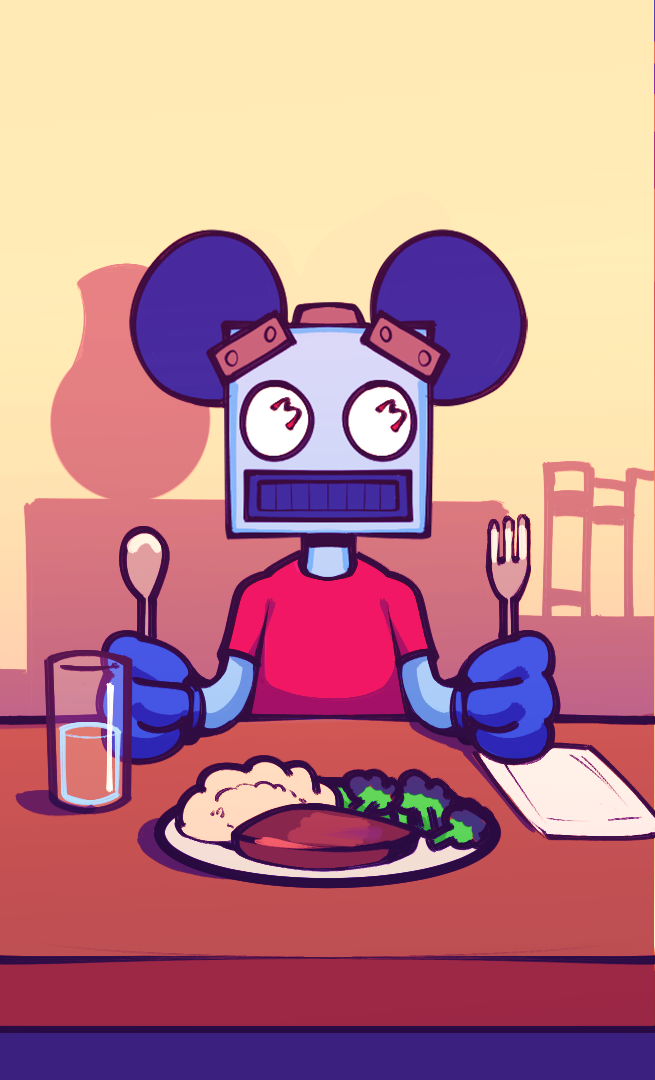
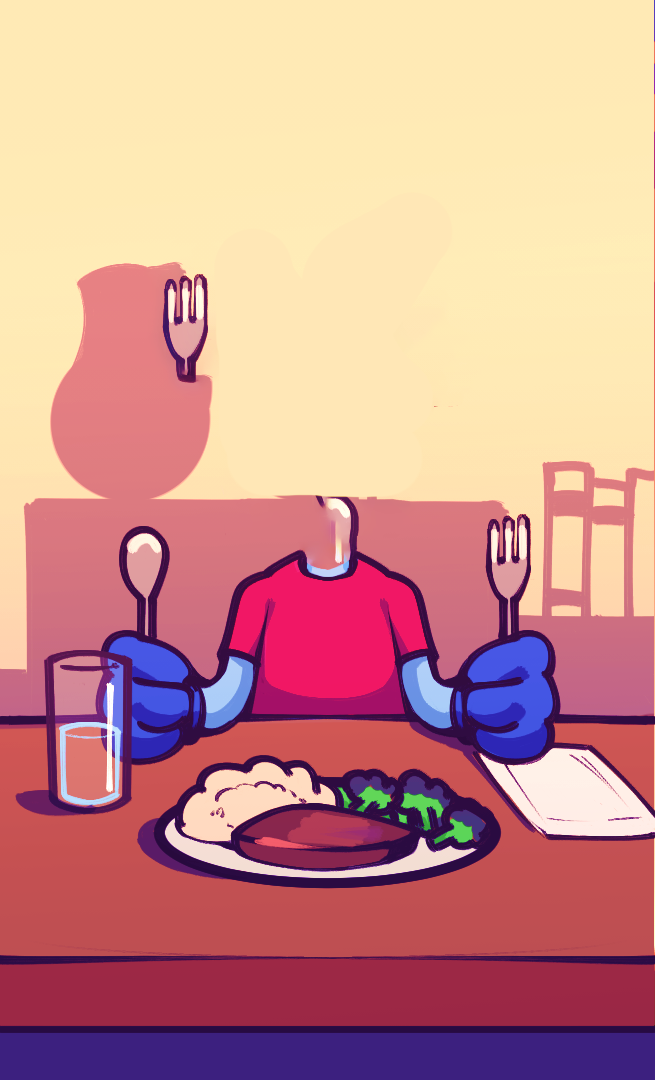
SYFT-920: scene 3 refactor transitions

Changed region(s): [[0.1832, 0.2139, 0.8244, 0.55]]

diff --git a/components/Scenes/Scene-3/index.module.scss b/components/Scenes/Scene-3/index.module.scss
@@ -8,7 +8,7 @@
 
   .backdrop1,
   .backdrop2,
-  .backdrop3 {
+  .backgroundContainer {
     position: relative;
     width: calc(100% / 3);
     background-repeat: no-repeat;
@@ -17,41 +17,71 @@
     overflow: hidden;
     transition: 0.5s;
     z-index: 2;
+    opacity: 0;
+    animation-name: fadeIn;
+    animation-duration: 1s;
+    animation-fill-mode: forwards;
   }
+
   .backdrop1 {
+    transform: translateY(100vh);
     background-image: url('/assets/images/scene3/1.png');
     &:hover {
       background-image: url('/assets/images/scene3/1-2.png');
     }
   }
   .backdrop2 {
+    transform: translateY(-100vh);
     background-image: url('/assets/images/scene3/2.png');
+
+    img {
+      position: absolute;
+      bottom: 46.5%;
+      left: 50.2%;
+      transform-origin: bottom;
+      transform: translate(-50%);
+      transition: 0.5s;
+    }
     &:hover {
-      background-image: url('/assets/images/scene3/2-1.png');
+      img {
+        transform: translate(-50%) rotate(5deg);
+      }
     }
   }
-  .backdrop3 {
-    background-image: url('/assets/images/scene3/3.png');
-    background-size: cover;
-    z-index: 1;
+  .backgroundContainer {
+    transform: translateY(40vh);
 
-    .glare {
-      position: absolute;
-      background-image: url('/assets/images/scene3/3-2.png');
+    .backdrop3 {
       width: 100%;
-      height: 500px;
-      bottom: 25%;
-      right: -20%;
+      height: 100%;
+      background-image: url('/assets/images/scene3/3.png');
+      background-repeat: no-repeat;
+      background-position: center;
+      z-index: 1;
       transition: 0.5s;
-      opacity: 0.4;
-    }
 
-    &:hover {
-      transform: scale(1.15);
+      @media (min-width: 1880px) {
+        background-size: cover;
+      }
 
       .glare {
-        bottom: 2%;
-        right: 0;
+        position: absolute;
+        background-image: url('/assets/images/scene3/3-2.png');
+        width: 100%;
+        height: 500px;
+        bottom: 25%;
+        right: -20%;
+        transition: 0.5s;
+        opacity: 0.4;
+      }
+
+      &:hover {
+        transform: scale(1.15);
+
+        .glare {
+          bottom: 2%;
+          right: 0;
+        }
       }
     }
   }
@@ -59,4 +89,11 @@
 
 .stepTwo {
   opacity: 0.2;
+}
+
+@keyframes fadeIn {
+  100% {
+    opacity: 1;
+    transform: translateY(0);
+  }
 }

diff --git a/components/Scenes/Scene-3/index.js b/components/Scenes/Scene-3/index.js
@@ -11,9 +11,13 @@ const Scene3 = ({ transitionData }) => (
       })}
     >
       <div className={styles.backdrop1} />
-      <div className={styles.backdrop2} />
-      <div className={styles.backdrop3}>
-        <div className={styles.glare} />
+      <div className={styles.backdrop2}>
+        <img src="/assets/images/scene3/2-1.png" alt="" />
+      </div>
+      <div className={styles.backgroundContainer}>
+        <div className={styles.backdrop3}>
+          <div className={styles.glare} />
+        </div>
       </div>
     </div>
   </MotionDiv>
